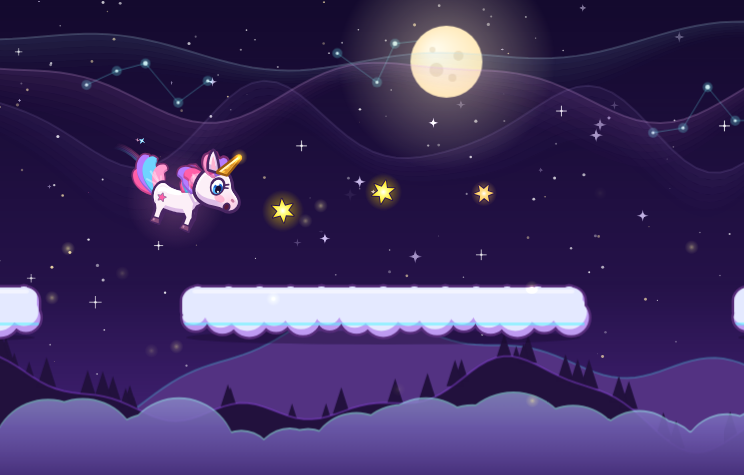
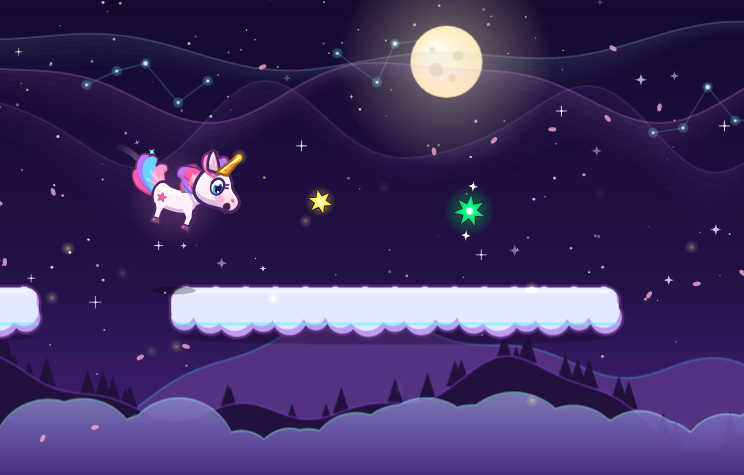
Publica versão 2026.11.07-1103
- Cada fase com cenário próprio: vulcões, icebergs, dunas e pirâmide, cidade, castelo, templo, cogumelos gigantes
- Céu muda por fase: sol, Terra, planeta com anéis, buraco negro, luas coloridas, tempestade com relâmpagos
- Partículas no ar: chuva, brasas, neve, bolhas, folhas, areia, confeitos, código digital
- Chão do fundo de lava, água, gosma, areia ou neve; plataformas de rocha, gelo, metal e arenito
- Fadinha dura 30 segundos

diff --git a/index.html b/index.html
@@ -8,7 +8,7 @@
     <link rel="preconnect" href="https://fonts.googleapis.com">
     <link rel="preconnect" href="https://fonts.gstatic.com" crossorigin>
     <link href="https://fonts.googleapis.com/css2?family=Fredoka:wght@500;600;700&display=swap" rel="stylesheet">
-    <link rel="stylesheet" href="style.css?v=2026.11.07-0012">
+    <link rel="stylesheet" href="style.css?v=2026.11.07-1103">
 </head>
 <body>
     <div id="game-container">
@@ -196,7 +196,7 @@
             </button>
         </div>
     </div>
-    <script src="personagem.js?v=2026.11.07-0012"></script>
-    <script src="game.js?v=2026.11.07-0012"></script>
+    <script src="personagem.js?v=2026.11.07-1103"></script>
+    <script src="game.js?v=2026.11.07-1103"></script>
 </body>
 </html>
